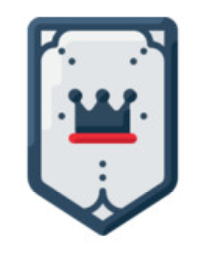
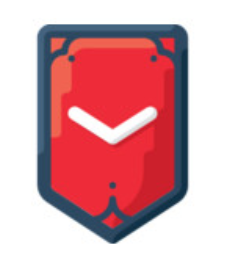
updates

diff --git a/CivicHub/ClientApp/src/app/petition-profile/petition-profile.component.ts b/CivicHub/ClientApp/src/app/petition-profile/petition-profile.component.ts
@@ -37,12 +37,14 @@ export class PetitionProfileComponent implements OnInit {
     upvoteReacts: number;
     downvoteReacts: number;
     userIdInvalid:boolean;
-    userIdInvalid2:boolean;
+    invalidComment:boolean;
     currentUser=new User();
     checkIfUserLiked: boolean;
     show = false;
     showNumber = 3;
     errorAdd: boolean;
+    successAdd;
+    voteSuccess;
     photos=["https://i0.1616.ro/media/2/2701/33631/16664900/1/whatsapp-image-2017-02-23-at-09-38-33.jpg",
             "https://autoblog.md/media/2018/03/gropi-bd-Dacia_0.jpg",
             "https://playtech.ro/wp-content/uploads/2018/02/gropi-bucure%C8%99ti-rom%C3%A2nia-1170x658.jpg",
@@ -134,6 +136,10 @@ export class PetitionProfileComponent implements OnInit {
         console.log(this.issueReact);
         this.api.addIssueReaction(this.issueReact).subscribe(() => {
             this.getUpvotes();
+            this.voteSuccess="The organizer thanks you! You gained 2 points";
+            setTimeout(() => {
+                this.voteSuccess="";
+            }, 3000);
         });
     }
 
@@ -145,16 +151,21 @@ export class PetitionProfileComponent implements OnInit {
         console.log(this.issueReact);
         this.api.addIssueReaction(this.issueReact).subscribe(() => {
             this.getDownvotes();
+            this.voteSuccess="Thanks for your reaction! You gained 2 points";
+            setTimeout(() => {
+                this.voteSuccess="";
+            }, 3000);
         });
     }
 
     addComment() {
-        if(this.userId == null){
-            this.userIdInvalid2=true
+        if(this.userId == null || this.commentText == null){
+            this.invalidComment=true
             setTimeout(() => {
-              this.userIdInvalid2=false
-          }, 2000);
+              this.invalidComment=false
+          }, 3000);
           }
+        
         else{
             this.stateComment.IssueStateId = this.currentState.id;
             this.stateComment.userId = this.userId;
@@ -164,6 +175,10 @@ export class PetitionProfileComponent implements OnInit {
                 this.commentText='';
                 this.api.getAllCommentsByStateId(this.currentState.id).subscribe((allcomm: IssueComment[]) => {
                     this.allComments = allcomm;
+                        this.successAdd="Fantastic! You gained 1 point";
+                        setTimeout(() => {
+                            this.successAdd="";
+                        }, 3000);
                     this.allComments.forEach(comment => {
                         this.api.getAllIssueStateCommentLikes(comment.id).subscribe((allLikes: IssueCommentLike[]) => {
                             comment.nrOfLikes = allLikes.length;

diff --git a/CivicHub/ClientApp/src/app/profile/profile.component.ts b/CivicHub/ClientApp/src/app/profile/profile.component.ts
@@ -15,6 +15,7 @@ export class ProfileComponent implements OnInit {
   currentUser:User;
   options = ['Followed', 'Signed', 'Organized','Prizes'];
   selectedOption:string;
+  badgeNumber:number;
 
 ngOnInit(): void {
   this.selectedOption = 'Organized';
@@ -25,25 +26,37 @@ ngOnInit(): void {
   this.api.getUserById(this.userId).subscribe((user: User) => {
     this.currentUser = user;
     console.log(this.currentUser);
-    if(this.currentUser.points<10){
-      this.currentUser.badgeType="Star_badge.png";
-    }
-    if(this.currentUser.points>10){
-      this.currentUser.badgeType="badge1.png";
-    }
-    if(this.currentUser.points>30){
-      this.currentUser.badgeType="badge2.png";
-    }
-    if(this.currentUser.points>80){
-      this.currentUser.badgeType="badge3.png";
-    }
-    if(this.currentUser.points>150){
-      this.currentUser.badgeType="badge4.png";
-    }
-    if(this.currentUser.points>500){
-      this.currentUser.badgeType="badge5.png";
-    }
-    
+    this.api.getBagdeNumber(user.id).subscribe((badgeNr:number)=>{
+      this.badgeNumber=badgeNr;
+      console.log(this.badgeNumber);
+      if(this.badgeNumber==1){
+        this.currentUser.badgeType="Star_badge.png";
+      }
+      if(this.badgeNumber==2){
+        this.currentUser.badgeType="badge1.png";
+      }
+      if(this.badgeNumber==3){
+        this.currentUser.badgeType="badge2.png";
+      }
+      if(this.badgeNumber==4){
+        this.currentUser.badgeType="badge3.png";
+      }
+      if(this.badgeNumber==5){
+        this.currentUser.badgeType="badge4.png";
+      }
+      if(this.badgeNumber==6){
+        this.currentUser.badgeType="badge5.png";
+      }
+      if(this.badgeNumber==7){
+        this.currentUser.badgeType="badge6.png";
+      }
+      if(this.badgeNumber==8){
+        this.currentUser.badgeType="badge7.png";
+      }
+      if(this.badgeNumber==9){
+        this.currentUser.badgeType="badge8.png";
+      }
+    });
 });
 }
 

diff --git a/CivicHub/ClientApp/src/app/petition-form/petition-form.component.ts b/CivicHub/ClientApp/src/app/petition-form/petition-form.component.ts
@@ -22,6 +22,7 @@ export class PetitionFormComponent implements OnInit {
     markerLng: number;
     markerAlpha = 1;
     userIdInvalid:boolean;
+    successAdd="";
 
     addIssueForm: FormGroup;
     success: boolean;
@@ -95,7 +96,7 @@ export class PetitionFormComponent implements OnInit {
         }, 2000);
         }
         else{
-        if (this.addIssueForm.valid) {
+        if (this.addIssueForm.valid && this.markerLat != null && this.markerLng != null) {
             this.success = true;
             setTimeout(() => {
                 this.success = null;
@@ -107,11 +108,13 @@ export class PetitionFormComponent implements OnInit {
             this.issue.longitude = this.markerLng;
             this.issue.userId = this.userId;
             console.log(this.userId);
-            
             console.log(this.issue);
             this.api.addIssue(this.issue).subscribe(() => {
-             
+              this.successAdd="Excellent! You gained 25 points"
+              setTimeout(() => {
+                this.successAdd = "";
                 this.router.navigate(["/home"]);
+            }, 3000);
             },
                 (error: Error) => {
                     console.log('err', error);
@@ -159,6 +162,7 @@ export class PetitionFormComponent implements OnInit {
 
     ngOnInit(): void {
         this.addIssueForm = this.fb.group({
+            address:[null,Validators.required],
             description: [null, Validators.required],
             title: [null, Validators.required],
         });

diff --git a/CivicHub/ClientApp/src/app/petition-profile/petition-profile.component.html b/CivicHub/ClientApp/src/app/petition-profile/petition-profile.component.html
@@ -32,6 +32,7 @@
     </div>
     
     <div class="detailsRight">
+        <p class="text-center" style="color: green;" *ngIf="voteSuccess != '' ">{{voteSuccess}}</p>
         <div class="signatures" *ngIf="currentState.type==0">
             <p class="labels">Signatures: {{allSignatures.length}}</p>
             <button class="btn" id="sign" type="button" (click)="showSignForm()">Sign petition</button>
@@ -53,7 +54,8 @@
                 <div class="newComment">
                     <textarea  [(ngModel)]="commentText" name="newComment" id="newCommentText" cols="50" rows="2" placeholder="New Comment..."></textarea><br>
                     <button class="btn btn-primary" id="sendComment" type="button" (click)="addComment()">Send</button>
-                    <p class="text-center" style="color:red;" *ngIf="userIdInvalid2==true">You need to login</p>
+                    <p class="text-center" style="color:red;" *ngIf="invalidComment==true">Invalid action</p>
+                    <p class="text-center" style="color: green;" *ngIf="successAdd != '' ">{{successAdd}}</p>
                 </div>
             </div>
         </div>

diff --git a/CivicHub/ClientApp/src/app/petition-form/petition-form.component.html b/CivicHub/ClientApp/src/app/petition-form/petition-form.component.html
@@ -21,7 +21,8 @@
     <div class="form-row">
         <div class="form-group col-md-6">
             <label for="inputAddress">Address:</label>
-            <input #address type="text" name="Address" class="form-control" id="inputAddress" placeholder="Address" value="">
+            <input #address type="text" name="address" class="form-control" id="address" formControlName="address" placeholder="Address" value="">
+            
         </div>
     </div>
     <div class="form-row">
@@ -51,6 +52,10 @@
     <div class="text-center">
         <button type="button" id="submit" class="btn" (click)="addIssue()">Submit</button>
     </div>
+    <br>
+    <p class="text-center" style="color:red;" *ngIf="success==false">Complete all the information</p>
     <p class="text-center" style="color:red;" *ngIf="userIdInvalid==true">You need to login</p>
+    <p class="text-center" style="color: green;" *ngIf="successAdd != '' ">{{successAdd}}</p>
+
 
 </form>

diff --git a/CivicHub/ClientApp/src/app/petition-profile/sign-form/sign-form.component.ts b/CivicHub/ClientApp/src/app/petition-profile/sign-form/sign-form.component.ts
@@ -20,6 +20,7 @@ export class SignFormComponent implements OnInit {
   currentDate=new Date();
   userId = sessionStorage.getItem('userId');
   errorAdd:boolean;
+  successAdd="";
 
   @Input() currentState:IssueState;
 
@@ -73,9 +74,13 @@ export class SignFormComponent implements OnInit {
         this.signature.userId=this.userId;
         this.api.addSignature(this.signature).subscribe(()=>{
           console.log(this.signature);
+          this.successAdd="Perfect! You gained 4 points.";
           this.api.getAllSignaturesByStateId(this.currentState.id).subscribe((allSignatures:Signature[])=>{
             this.petitonProfile.allSignatures=allSignatures;
-            this.signForm.hide();
+            setTimeout(() => {
+              this.successAdd = "";
+              this.signForm.hide();
+          }, 4000);
           });
 
         },

diff --git a/CivicHub/ClientApp/src/app/shared/api.service.ts b/CivicHub/ClientApp/src/app/shared/api.service.ts
@@ -31,7 +31,11 @@ export class ApiService {
         headers: this.header,
       });
     }
-
+    getBagdeNumber(userId:string){
+      return this.http.get(this.baseUrl + "/Gamification/GetBadgeNumber/" + userId, {
+        headers: this.header,
+      });
+    }
     getAllStatesByIssueId(issueId: string) {
       return this.http.get(this.baseUrl + "/IssueState/GetAllByIssueId/" + issueId, {
         headers: this.header,

diff --git a/CivicHub/ClientApp/src/app/profile/profile.component.html b/CivicHub/ClientApp/src/app/profile/profile.component.html
@@ -5,7 +5,7 @@
         <p id="firstName"> {{currentUser.firstName}} {{currentUser.lastName}} </p>
     </div>
     <div class="rank"> 
-      <img src="../../assets/images/{{currentUser.badgeType}}" alt="Ranking">
+      <img id="badge" src="../../assets/images/{{currentUser.badgeType}}" alt="Ranking">
       <p>Total points: {{currentUser.points}}</p> 
     </div>
 </div>

diff --git a/CivicHub/ClientApp/src/app/petition-profile/sign-form/sign-form.component.html b/CivicHub/ClientApp/src/app/petition-profile/sign-form/sign-form.component.html
@@ -74,6 +74,7 @@
         </div>
         
     </form>
+    <p class="text-center" style="color: green;" *ngIf="successAdd != '' ">{{successAdd}}</p>
     <p class="text-center" style="color: red;" *ngIf="errorAdd == true">You already signed this petition</p>
   </div>
 </div>

diff --git a/CivicHub/ClientApp/src/app/profile/profile.component.css b/CivicHub/ClientApp/src/app/profile/profile.component.css
@@ -58,3 +58,7 @@
   text-decoration: underline;
   cursor: pointer;
 }
+#badge {
+  height: 90%;
+  width: 90%;
+}
